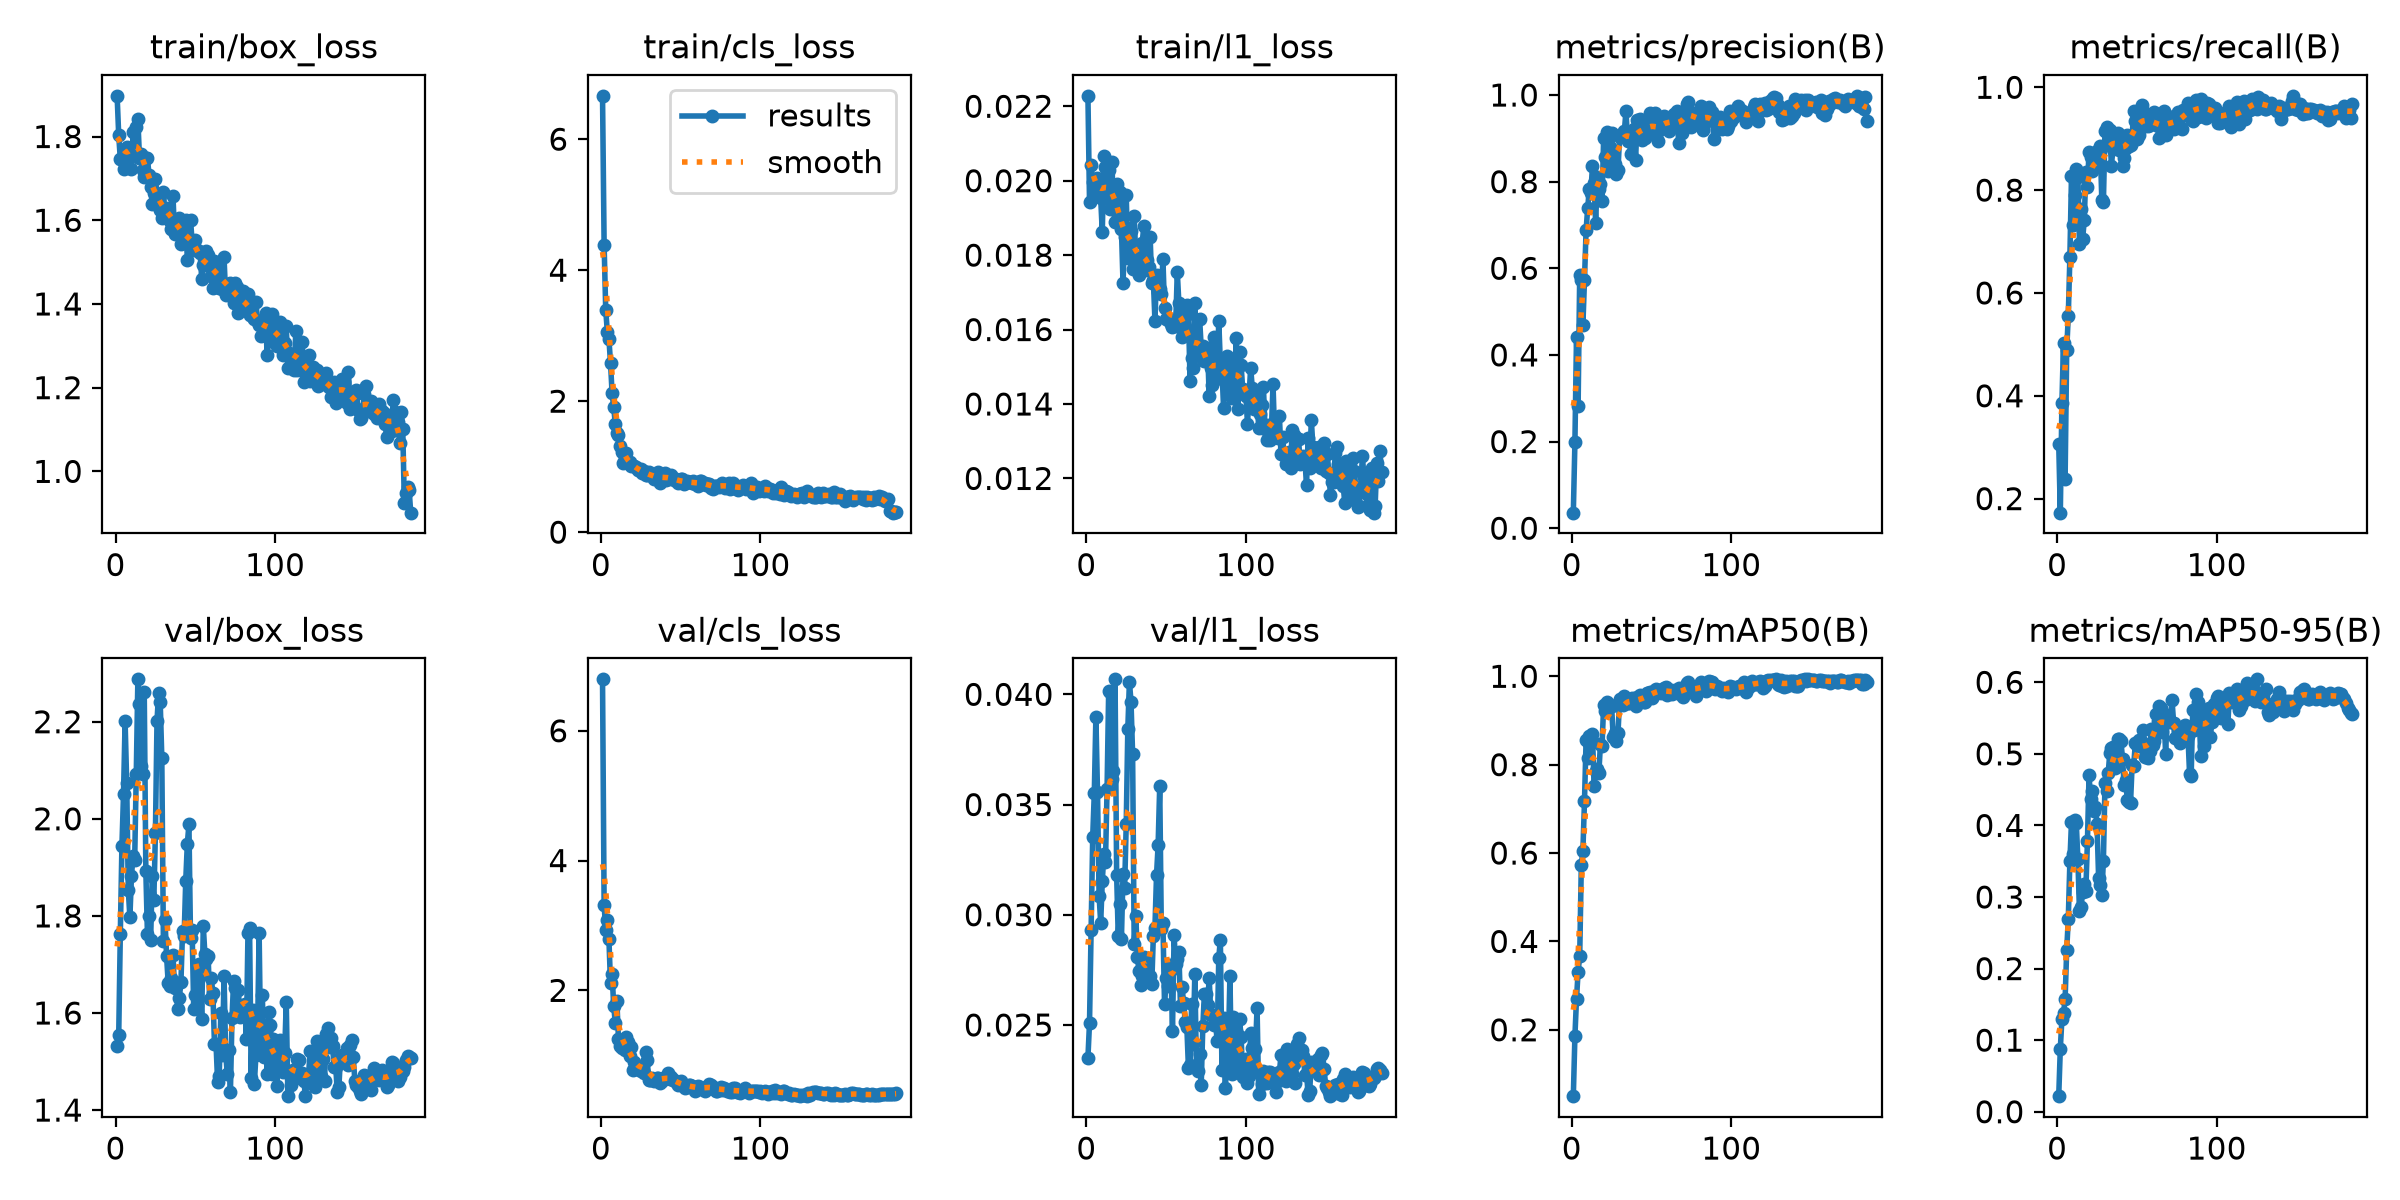
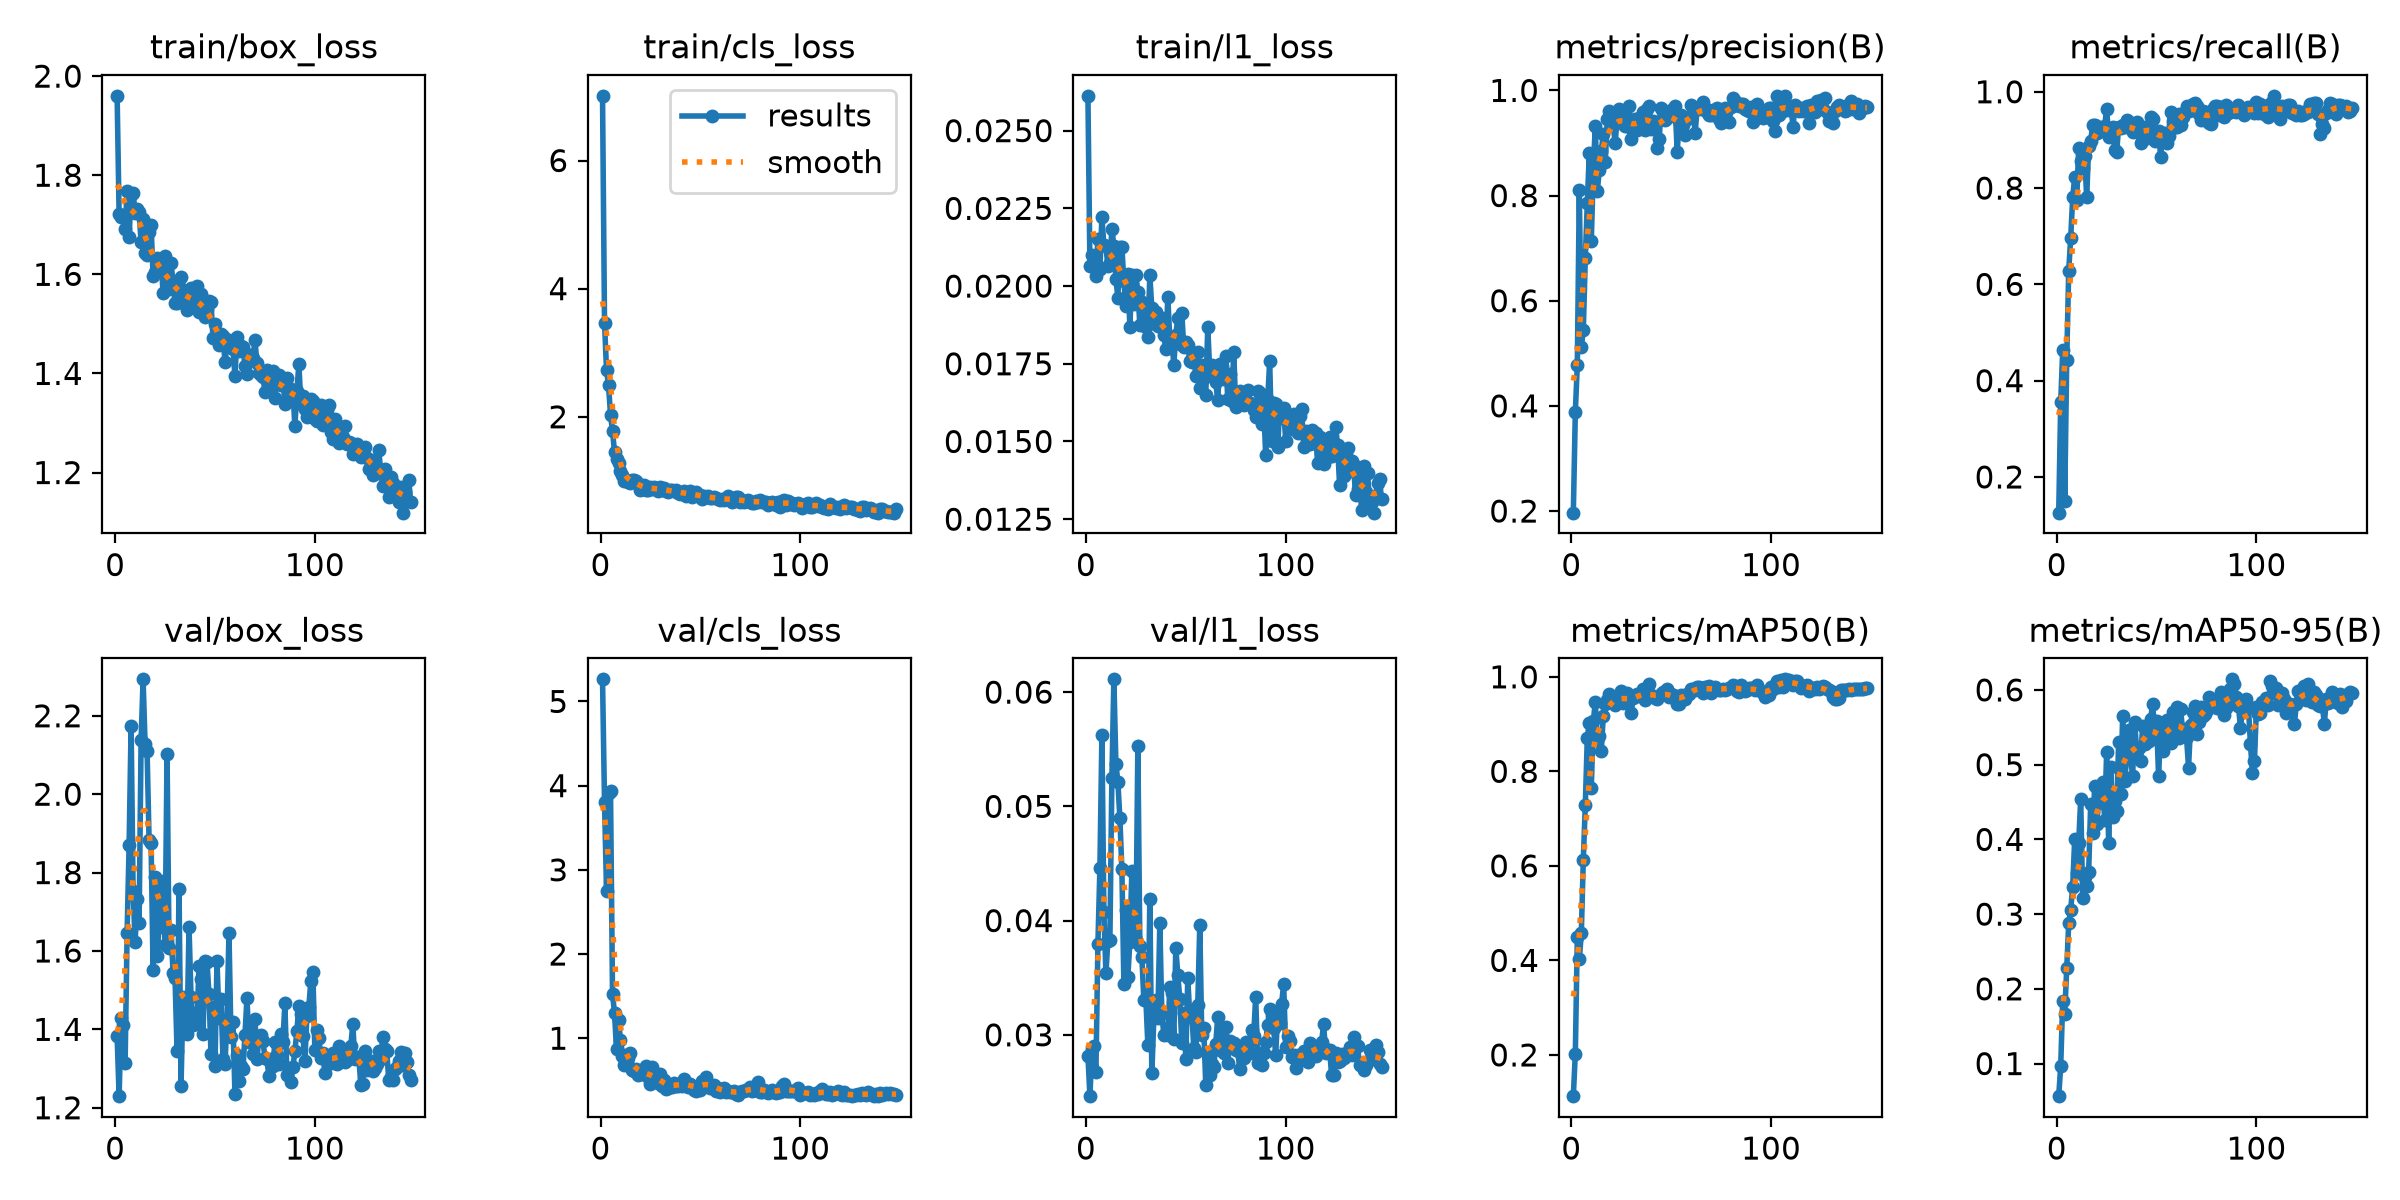
Switch to train-3 model and update README results
Retrained with 81 new bon o bon frames; all classes above 0.9 mAP50.

diff --git a/05-test-camera.py b/05-test-camera.py
@@ -4,7 +4,7 @@ from ultralytics import YOLO
 
 def main():
     # โหลดโมเดลที่ผ่านการฝึก (Trained Model)
-    model = YOLO("runs/detect/train-v2/weights/best.pt")
+    model = YOLO("runs/detect/train-3/weights/best.pt")
 
     # เปิดใช้งานกล้องเว็บแคม
     # เลข 0 หมายถึงกล้องตัวแรกที่เชื่อมต่อกับคอมพิวเตอร์

diff --git a/04-test_video.py b/04-test_video.py
@@ -1,7 +1,7 @@
 from ultralytics import YOLO
 
 # โหลดโมเดลที่ผ่านการฝึก (Trained Model)
-model = YOLO("runs/detect/train-v2/weights/best.pt")
+model = YOLO("runs/detect/train-3/weights/best.pt")
 
 # กำหนดชื่อไฟล์วิดีโอที่ต้องการนำมาทดสอบ
 video_to_test = "test_chocolate_treats_video.mp4"

diff --git a/03-test_image.py b/03-test_image.py
@@ -1,7 +1,7 @@
 from ultralytics import YOLO
 
 # โหลดโมเดลที่ผ่านการฝึก (Trained Model)
-model = YOLO("runs/detect/train-v2/weights/best.pt")
+model = YOLO("runs/detect/train-3/weights/best.pt")
 
 # นำโมเดลไปทดสอบกับรูปภาพ
 results = model.predict(

diff --git a/README.md b/README.md
@@ -272,24 +272,43 @@ close_mosaic = 20      # ปิด Mosaic ใน 20 epoch สุดท้าย
 
 # 📊 Results
 
-โมเดลปัจจุบัน `runs/detect/train-v2` (yolo26s, หยุดที่ epoch 185, `best.pt` มาจาก epoch 125) วัดบน Validation 29 ภาพ
+โมเดลปัจจุบันคือ `runs/detect/train-3` (yolo26s) หยุดเองที่ epoch 148 โดย `best.pt` มาจาก epoch 88 Dataset ประกอบด้วยเฟรมจากวิดีโอ Train เดิม 147 ภาพ และเฟรมจากวิดีโอ bon o bon ที่ถ่ายใหม่ (ระยะใกล้ หลายมุม) อีก 81 ภาพ
 
-| Model | Precision | Recall | mAP50 | mAP50-95 |
+## ผลรายยี่ห้อ (Validation 46 ภาพ)
+
+| Class | Precision | Recall | mAP50 | mAP50-95 |
 | ----- | --------- | ------ | ----- | -------- |
-| `train-v2` (yolo26s) | 0.985 | 0.959 | 0.991 | 0.605 |
-| `train-2` (yolo26n) | - | - | 0.972 | 0.558 |
+| beng-beng | 0.986 | 1.000 | 0.995 | 0.623 |
+| bon o bon | 0.963 | 0.957 | 0.965 | 0.628 |
+| kalpa | 0.900 | 0.955 | 0.922 | 0.645 |
+| milky snack | 1.000 | 0.947 | 0.984 | 0.530 |
+| sumo | 0.961 | 0.938 | 0.991 | 0.645 |
+| **all** | **0.962** | **0.959** | **0.971** | **0.614** |
+
+ทุกยี่ห้อได้ Precision, Recall และ mAP50 เกิน 90%
+
+## เทียบกับโมเดลรุ่นก่อน
+
+| Model | val mAP50 | val mAP50-95 | bon o bon (val) Recall | วิดีโอ bon o bon (เฟรมที่ตรวจเจอ) | `test.jpg` (conf 0.5) |
+| ----- | --------- | ------------ | ---------------------- | --------------------------------- | --------------------- |
+| `train-3` | 0.971 | 0.614 | 0.957 | **93%** (1221/1317) | ครบ 5/5 ยี่ห้อ |
+| `train-v2` | 0.970 | 0.599 | 0.717 | 38% (506/1317) | 4/5 (sumo ได้แค่ 0.33) |
+
+> ทั้งสองรุ่นวัดบน Validation ชุดเดียวกัน 46 ภาพ วิดีโอ bon o bon มี 81 เฟรมที่ใช้ Train อยู่ด้วย ตัวเลข 93% จึงสูงกว่าการใช้งานจริงเล็กน้อย
 
 ![Confusion Matrix](images/confusion_matrix.png)
 
 ![Validation Prediction](images/val_pred.jpg)
 
-> ภาพ Validation มาจากวิดีโอเดียวกับภาพ Train ตัวเลขจึงสูงกว่าการใช้งานจริง ตอนทดสอบกับวิดีโอ bon o bon ที่ถ่ายใหม่ (มุมใกล้และหลายมุม) `train-v2` ตรวจเจอแค่ 38% ของเฟรม จึงเพิ่มเฟรมจากวิดีโอนั้นเข้า Dataset แล้ว Train ใหม่
+![bon o bon](images/bonobon_result.jpg)
+
+> ภาพ Validation มาจากวิดีโอชุดเดียวกับภาพ Train ถ้าจะให้โมเดลใช้งานได้ดีกับฉากจริง ควรถ่ายวิดีโอเพิ่มสำหรับทุกยี่ห้อ บนพื้นหลังและระยะที่หลากหลาย
 
 ---
 
 # 🧪 Test Model
 
-ทั้ง 3 สคริปต์โหลด Weights จาก `runs/detect/train-v2/weights/best.pt` ถ้า Train รอบใหม่ ให้แก้ path นี้ในทั้ง 3 ไฟล์
+ทั้ง 3 สคริปต์โหลด Weights จาก `runs/detect/train-3/weights/best.pt` ถ้า Train รอบใหม่ ให้แก้ path นี้ในทั้ง 3 ไฟล์
 
 ## 1. Test Image
 
@@ -330,7 +349,7 @@ python 05-test-camera.py
 ## ใช้ผ่าน Ultralytics CLI
 
 ```bash
-yolo detect predict model=runs/detect/train-v2/weights/best.pt source=test.jpg conf=0.5
+yolo detect predict model=runs/detect/train-3/weights/best.pt source=test.jpg conf=0.5
 ```
 
 ---

diff --git a/CLAUDE.md b/CLAUDE.md
@@ -28,10 +28,12 @@ All paths are relative to the repo root, so run the scripts from there.
 4. `python 04-test_video.py` predicts on `test_chocolate_treats_video.mp4`, then saves and shows the result.
 5. `python 05-test-camera.py` runs real-time webcam detection with OpenCV DirectShow at 1280x720 MJPG. Press `q` to quit.
 
-The inference scripts (03–05) hard-code the weights path `runs/detect/train-v2/weights/best.pt`. After a new training run, update that path in all three scripts.
+The inference scripts (03–05) hard-code the weights path `runs/detect/train-3/weights/best.pt`. After a new training run, update that path in all three scripts.
 
-The Ultralytics CLI works too, for example `yolo detect predict model=runs/detect/train-v2/weights/best.pt source=test.jpg conf=0.5`.
+The Ultralytics CLI works too, for example `yolo detect predict model=runs/detect/train-3/weights/best.pt source=test.jpg conf=0.5`.
 
 ## Current model
 
-`runs/detect/train-v2` (yolo26s, stopped early at epoch 185; `best.pt` is from epoch 125) scores P 0.985, R 0.959, mAP50 0.991 and mAP50-95 0.605 on the 29-image val split. The older `train-2` (yolo26n) is kept for comparison: mAP50 0.972, mAP50-95 0.558. The val images are frames from the same video as the train images, so these numbers are optimistic.
+`runs/detect/train-3` (yolo26s, stopped early at epoch 148; `best.pt` is from epoch 88) was trained on 228 images: 147 frames from `train_chocolate_treats.mp4` plus 81 close-up, multi-angle frames (`bonobon_*.jpg`) from `bon o bon.mp4.MOV`. On the 46-image val split it scores P 0.962, R 0.959, mAP50 0.971 and mAP50-95 0.614, and every class is above 0.9 in P, R and mAP50. It detects bon o bon in 93% of the frames of the bon o bon clip and all 5 brands on `test.jpg`. The previous `train-v2` scores mAP50 0.970 / mAP50-95 0.599 on the same split, but bon o bon recall is only 0.717 and it detects bon o bon in 38% of the clip's frames. The val images come from the same videos as the train images, so these numbers are optimistic.
+
+The new JSON export (`project-4-at-2026-10-04-...json`) sits beside the old one, so `01-export_dataset.py` needs `--json`. The bon o bon images were drag-and-drop uploads (`/data/upload/...` with an 8-hex prefix), which `resolve_image_file()` strips when matching files in `frame/images/`.
